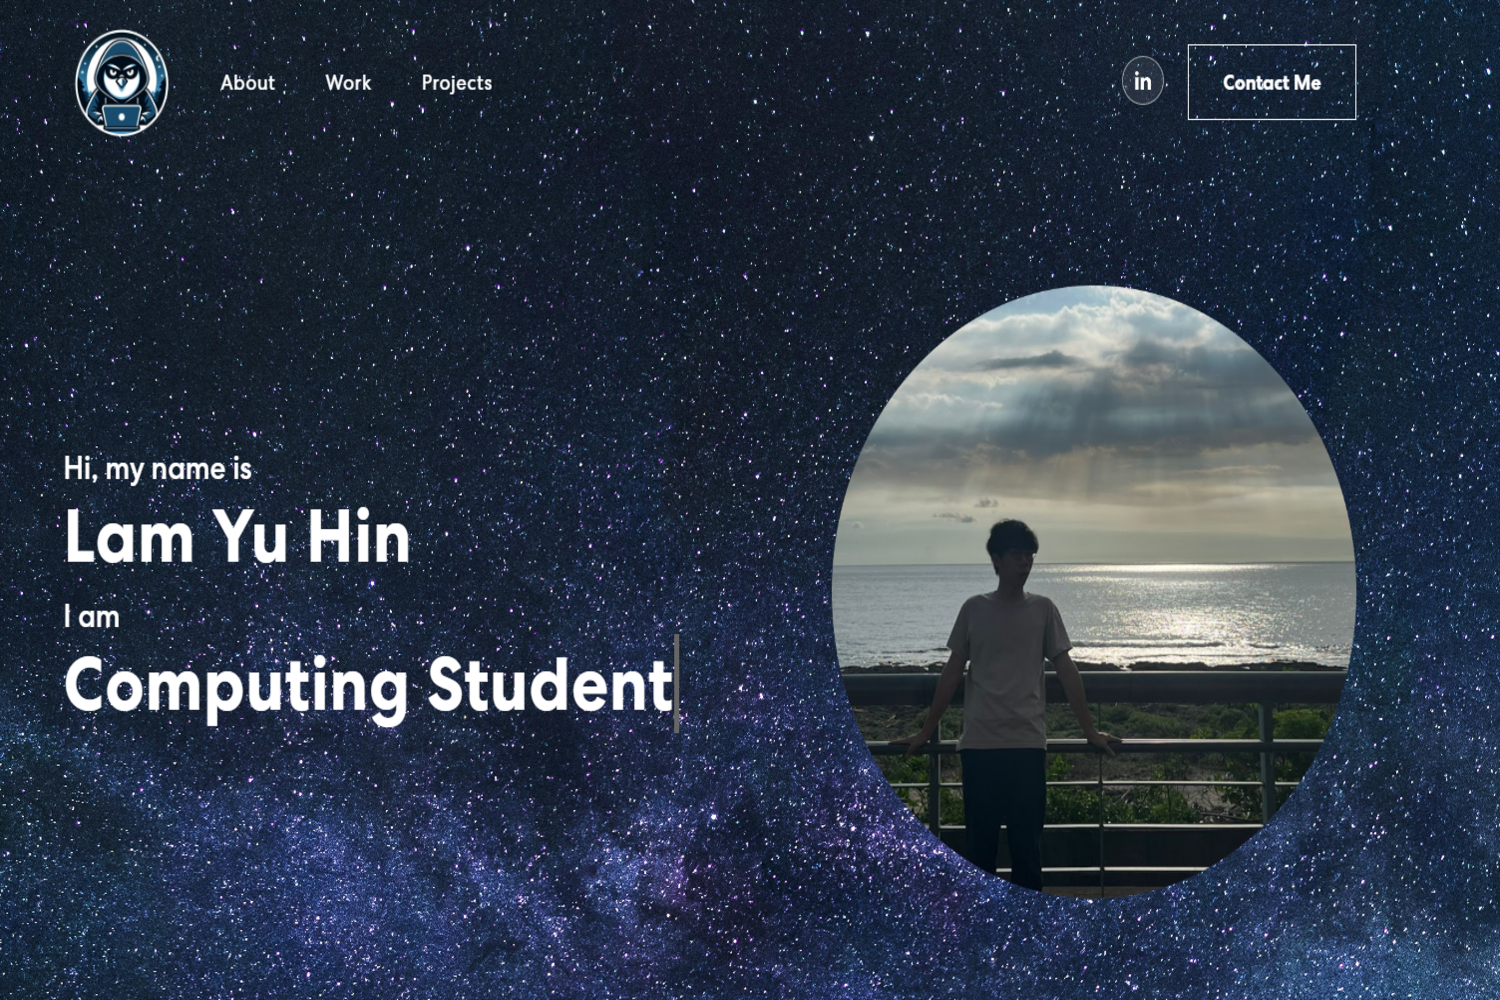
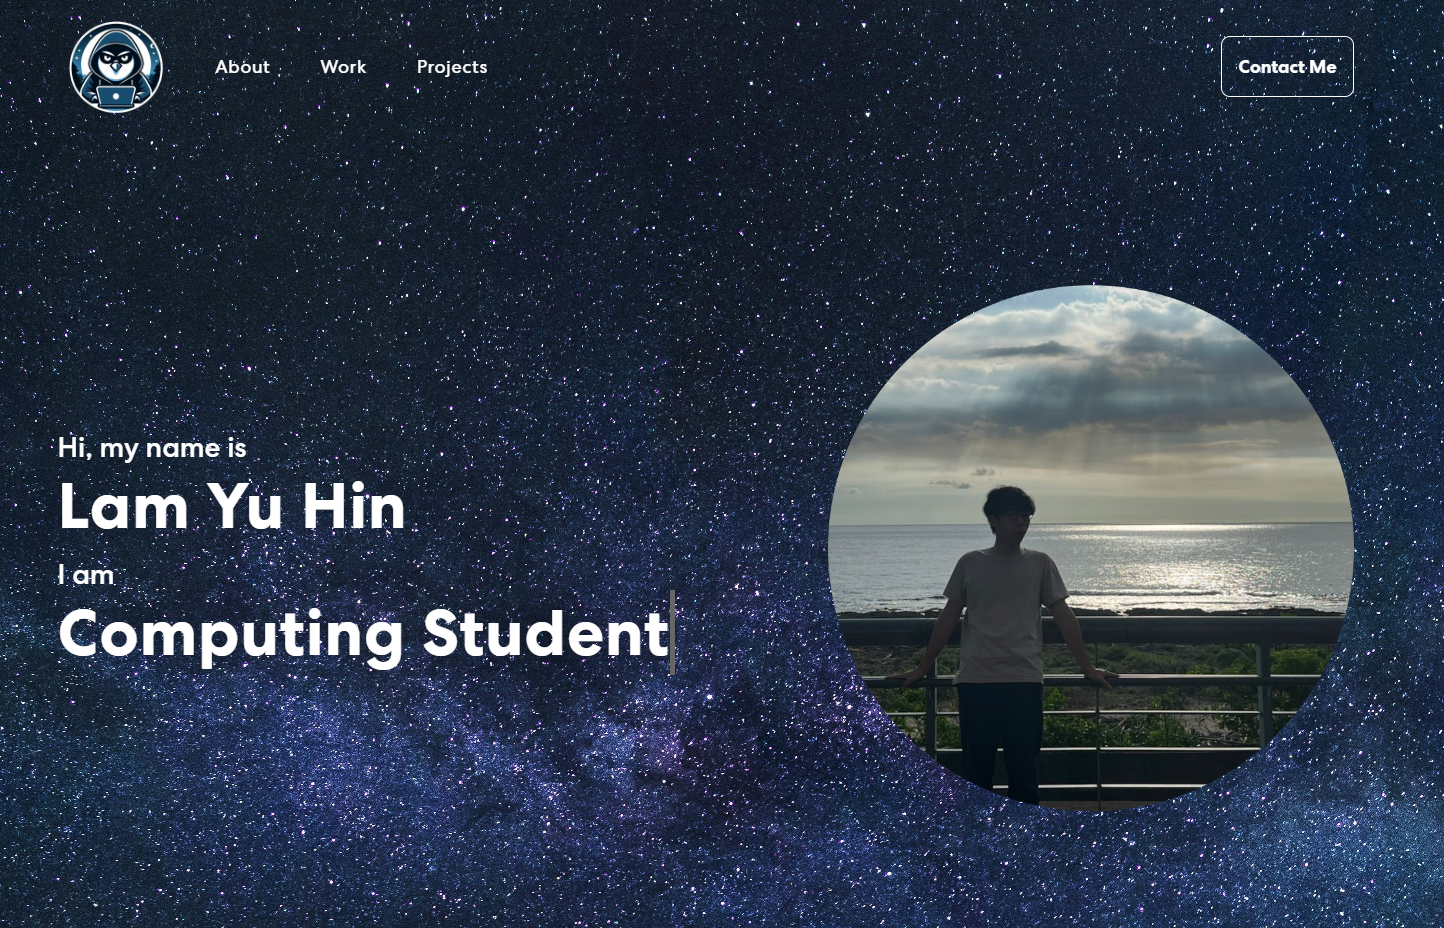
Update Navbar responsive

diff --git a/src/App.css b/src/App.css
@@ -4,11 +4,13 @@
   src: url('./assets/font/CentraNo2-Bold.ttf');
   font-weight: 700;
 }
+
 @font-face {
   font-family: Centra;
   src: url('./assets/font/CentraNo2-Medium.ttf');
   font-weight: 500;
 }
+
 @font-face {
   font-family: Centra;
   src: url('./assets/font/CentraNo2-Book.ttf');
@@ -84,28 +86,48 @@ nav.navbar {
   z-index: 9999;
   transition:  0.32s ease-in-out;
 }
+
 nav.navbar.scrolled {
   padding: 0px 0;
   background-color: #121212;
 }
+
+nav.navbar a.navbar-brand {
+  width: 9%;
+}
+
 @media (max-width: 768px) {
   nav.navbar {
-    padding: 0px 0;
+    padding-top: .625rem;
+    padding-bottom: .625rem;
     background-color: #121212;
+    border-bottom: 1px solid;
+    border-color: rgb(55 65 81);
+  }
+  nav.navbar a.navbar-brand {
+    width: 11%;
+  }
+  .navbar-collapse .nav-link {
+    padding-top: .5rem !important;
+    padding-bottom: .5rem !important;
+    border-bottom: 1px solid;
+    border-color: rgb(55 65 81);
   }
 }
 
-nav.navbar a.navbar-brand {
-    width: 9%;
-}
 nav.navbar .navbar-nav .nav-link.navbar-link {
   font-weight: 400;
-  color: #fff !important;
+  color: #fff;
   letter-spacing: 0.8px;
   padding: 0 25px;
   font-size: 18px;
   line-height:150%;
 }
+
+nav.navbar .navbar-nav a.nav-link.navbar-link:hover{
+  color: rgb(51 51 51);
+}
+
 nav.navbar .navbar-nav a.nav-link.navbar-link:hover,
 nav.navbar .navbar-nav a.nav-link.navbar-link.active {
     opacity: 1;
@@ -127,6 +149,7 @@ nav.navbar .navbar-nav a.nav-link.navbar-link.active {
     line-height: 1;
     border: 1px solid rgba(255, 255, 255, 0.5);
 }
+
 .social-icon a::before {
     content: "";
     width: 42px;
@@ -137,27 +160,46 @@ nav.navbar .navbar-nav a.nav-link.navbar-link.active {
     transform: scale(0);
 	transition: 0.3s ease-in-out;
 }
+
 .social-icon a:hover::before {
     transform: scale(1);
 }
+
 .social-icon a img {
 	width: 40%;
 	z-index: 1;
 	transition: 0.3s ease-in-out;
 }
+
 .social-icon a:hover img {
 	filter: brightness(0) saturate(100%) invert(0%) sepia(7%) saturate(98%) hue-rotate(346deg) brightness(95%) contrast(86%);
 }
+
 nav.navbar .button {
   font-weight: 700;
   color: #fff;
   border: 1px solid #fff;
-  padding: 18px 34px;
+  padding: 1rem 1rem;
   font-size: 18px;
   margin-left: 18px;
 	position: relative;
 	background-color: transparent;
 	transition: 0.3s ease-in-out;
+  border-radius: 9px;
+}
+
+@media (max-width: 768px){
+  nav.navbar .button {
+    padding: .5rem 40.5% .5rem 40.5%;
+    margin-left: 0px;
+    border-top: none;
+    border-left: none;
+    border-right: none;
+    border-bottom: 1px solid  rgb(55 65 81);
+    border-radius: 0%;
+    font-weight: normal;
+    white-space: nowrap;
+  }
 }
 
 nav.navbar button span {
@@ -174,20 +216,24 @@ nav.navbar button::before {
   z-index: -1;
   transition: 0.3s ease-in-out;
 }
+
 nav.navbar button:hover {
-  color: #121212;
+  color: rgb(51 51 51);
 }
+
 .navbar-text button:hover::before {
 	content: "";
 	width: 100%;
 	height: 100%;
 	position: absolute;
 }
+
 nav.navbar .navbar-toggler:active,
 nav.navbar .navbar-toggler:focus {
 	outline: none;
     box-shadow: none;
 }
+
 nav.navbar .navbar-toggler-icon {
   width: 24px;
   height: 17px;
@@ -197,9 +243,11 @@ nav.navbar .navbar-toggler-icon {
   transition: all 300ms linear;
   top: -2px;
 }
+
 nav.navbar .navbar-toggler-icon:focus {
 	border-bottom: 2px solid #fff;
 }
+
 nav.navbar .navbar-toggler-icon:after,
 nav.navbar .navbar-toggler-icon:before {
 	width: 24px;
@@ -212,22 +260,29 @@ nav.navbar .navbar-toggler-icon:before {
 	z-index: 2;
 	transition: all 300ms linear;
 }
+
 nav.navbar .navbar-toggler-icon:after {
 	top: 8px;
 }
+
 nav.navbar .navbar-toggler[aria-expanded="true"] .navbar-toggler-icon:after {
 	transform: rotate(45deg);
 	background-color: #fff;
 	height: 2px;
 }
+
 nav.navbar .navbar-toggler[aria-expanded="true"] .navbar-toggler-icon:before {
 	transform: translateY(8px) rotate(-45deg);
 	background-color: #fff;
 	height: 2px;
 }
+
 nav.navbar .navbar-toggler[aria-expanded="true"] .navbar-toggler-icon {
 	border-color: transparent;
 }
+
+
+
 
 /************ Banner Css ************/
 
@@ -241,7 +296,7 @@ nav.navbar .navbar-toggler[aria-expanded="true"] .navbar-toggler-icon {
 }
 @media (max-width: 768px) {
   .banner {
-    padding: 80px 0 100px 0;
+    padding: 110px 0 100px 0;
   }
 }
 .banner .tagline {
@@ -288,6 +343,7 @@ nav.navbar .navbar-toggler[aria-expanded="true"] .navbar-toggler-icon {
   margin-left: 25px;
 }
 .banner img {
+  padding: 50px 0 50px 0;
   animation: updown 3s linear infinite;
 }
 @keyframes updown {
@@ -638,7 +694,7 @@ filter: brightness(0) saturate(100%) invert(0%) sepia(7%) saturate(98%) hue-rota
 
 /************ Footer Css ************/
 .footer {
-  padding: 0 0 50px 0;
+  padding: 50px 0 50px 0;
   background-image: url('./assets/img/bannerbg.jpg');
   background-position: center center;
   background-size: cover;

diff --git a/src/components/NavBar.js b/src/components/NavBar.js
@@ -1,7 +1,6 @@
 import { useState, useEffect } from "react";
 import { Navbar, Container, Nav } from "react-bootstrap"
-import logo from '../assets/img/icon2.png';
-import navIcon1 from '../assets/img/linkedin.svg';
+import logo from '../assets/img/icon.png';
 
 export const NavBar = () => {
 const [activeLink, setActiveLink] = useState('home');
@@ -42,15 +41,17 @@ useEffect(() => {
           </Nav>
           <span className="navbar-text">
             <div className={isCollapsed ? "d-flex flex-column" : ""}>
-              <div className="social-icon">
-                <div>
-                  <a href="https://www.linkedin.com/in/yu-hin-lam-b88a02233/"><img src={navIcon1} alt="" /></a>
-                </div>
-              </div>
-              <button className="button" onClick={() => window.location.href="https://wa.me/qr/R24SAHJBBMY6O1"}><span>Contact Me</span></button>
             </div>
           </span>
-          
+          <button 
+            className={`button ${activeLink === 'footer' ? 'active navbar-link' : 'navbar-link'}`} 
+            onClick={() => {
+              onUpdateActiveLink('footer');
+              window.location = '#footer';
+            }}
+          >
+            <span>Contact Me</span>
+          </button>
         </Navbar.Collapse>
       </Container>
     </Navbar>

diff --git a/src/components/Footer.js b/src/components/Footer.js
@@ -1,19 +1,17 @@
 import { Container, Row, Col } from "react-bootstrap";
-import logo from "../assets/img/icon2.png";
-import navIcon1 from "../assets/img/linkedin.svg";
+import logo from "../assets/img/icon.png";
 
 export const Footer = () => {
   return (
-    <footer className="footer">
+    <footer className="footer" id="footer">
       <Container>
         <Row className="align-items-center">
           <Col size={12} sm={6}>
             <img src={logo} alt="Logo" />
           </Col>
           <Col size={12} sm={6} className="text-center text-sm-end">
-            <div className="social-icon">
-            <a href="https://www.linkedin.com/in/yu-hin-lam-b88a02233/"><img src={navIcon1} alt="Icon" /></a>
-            </div>
+            <h3>Contact Me:</h3>
+            <h5>hinslam866@gmail.com</h5>
             <p>Copyright 2024. All Rights Reserved</p>
           </Col>
         </Row>
